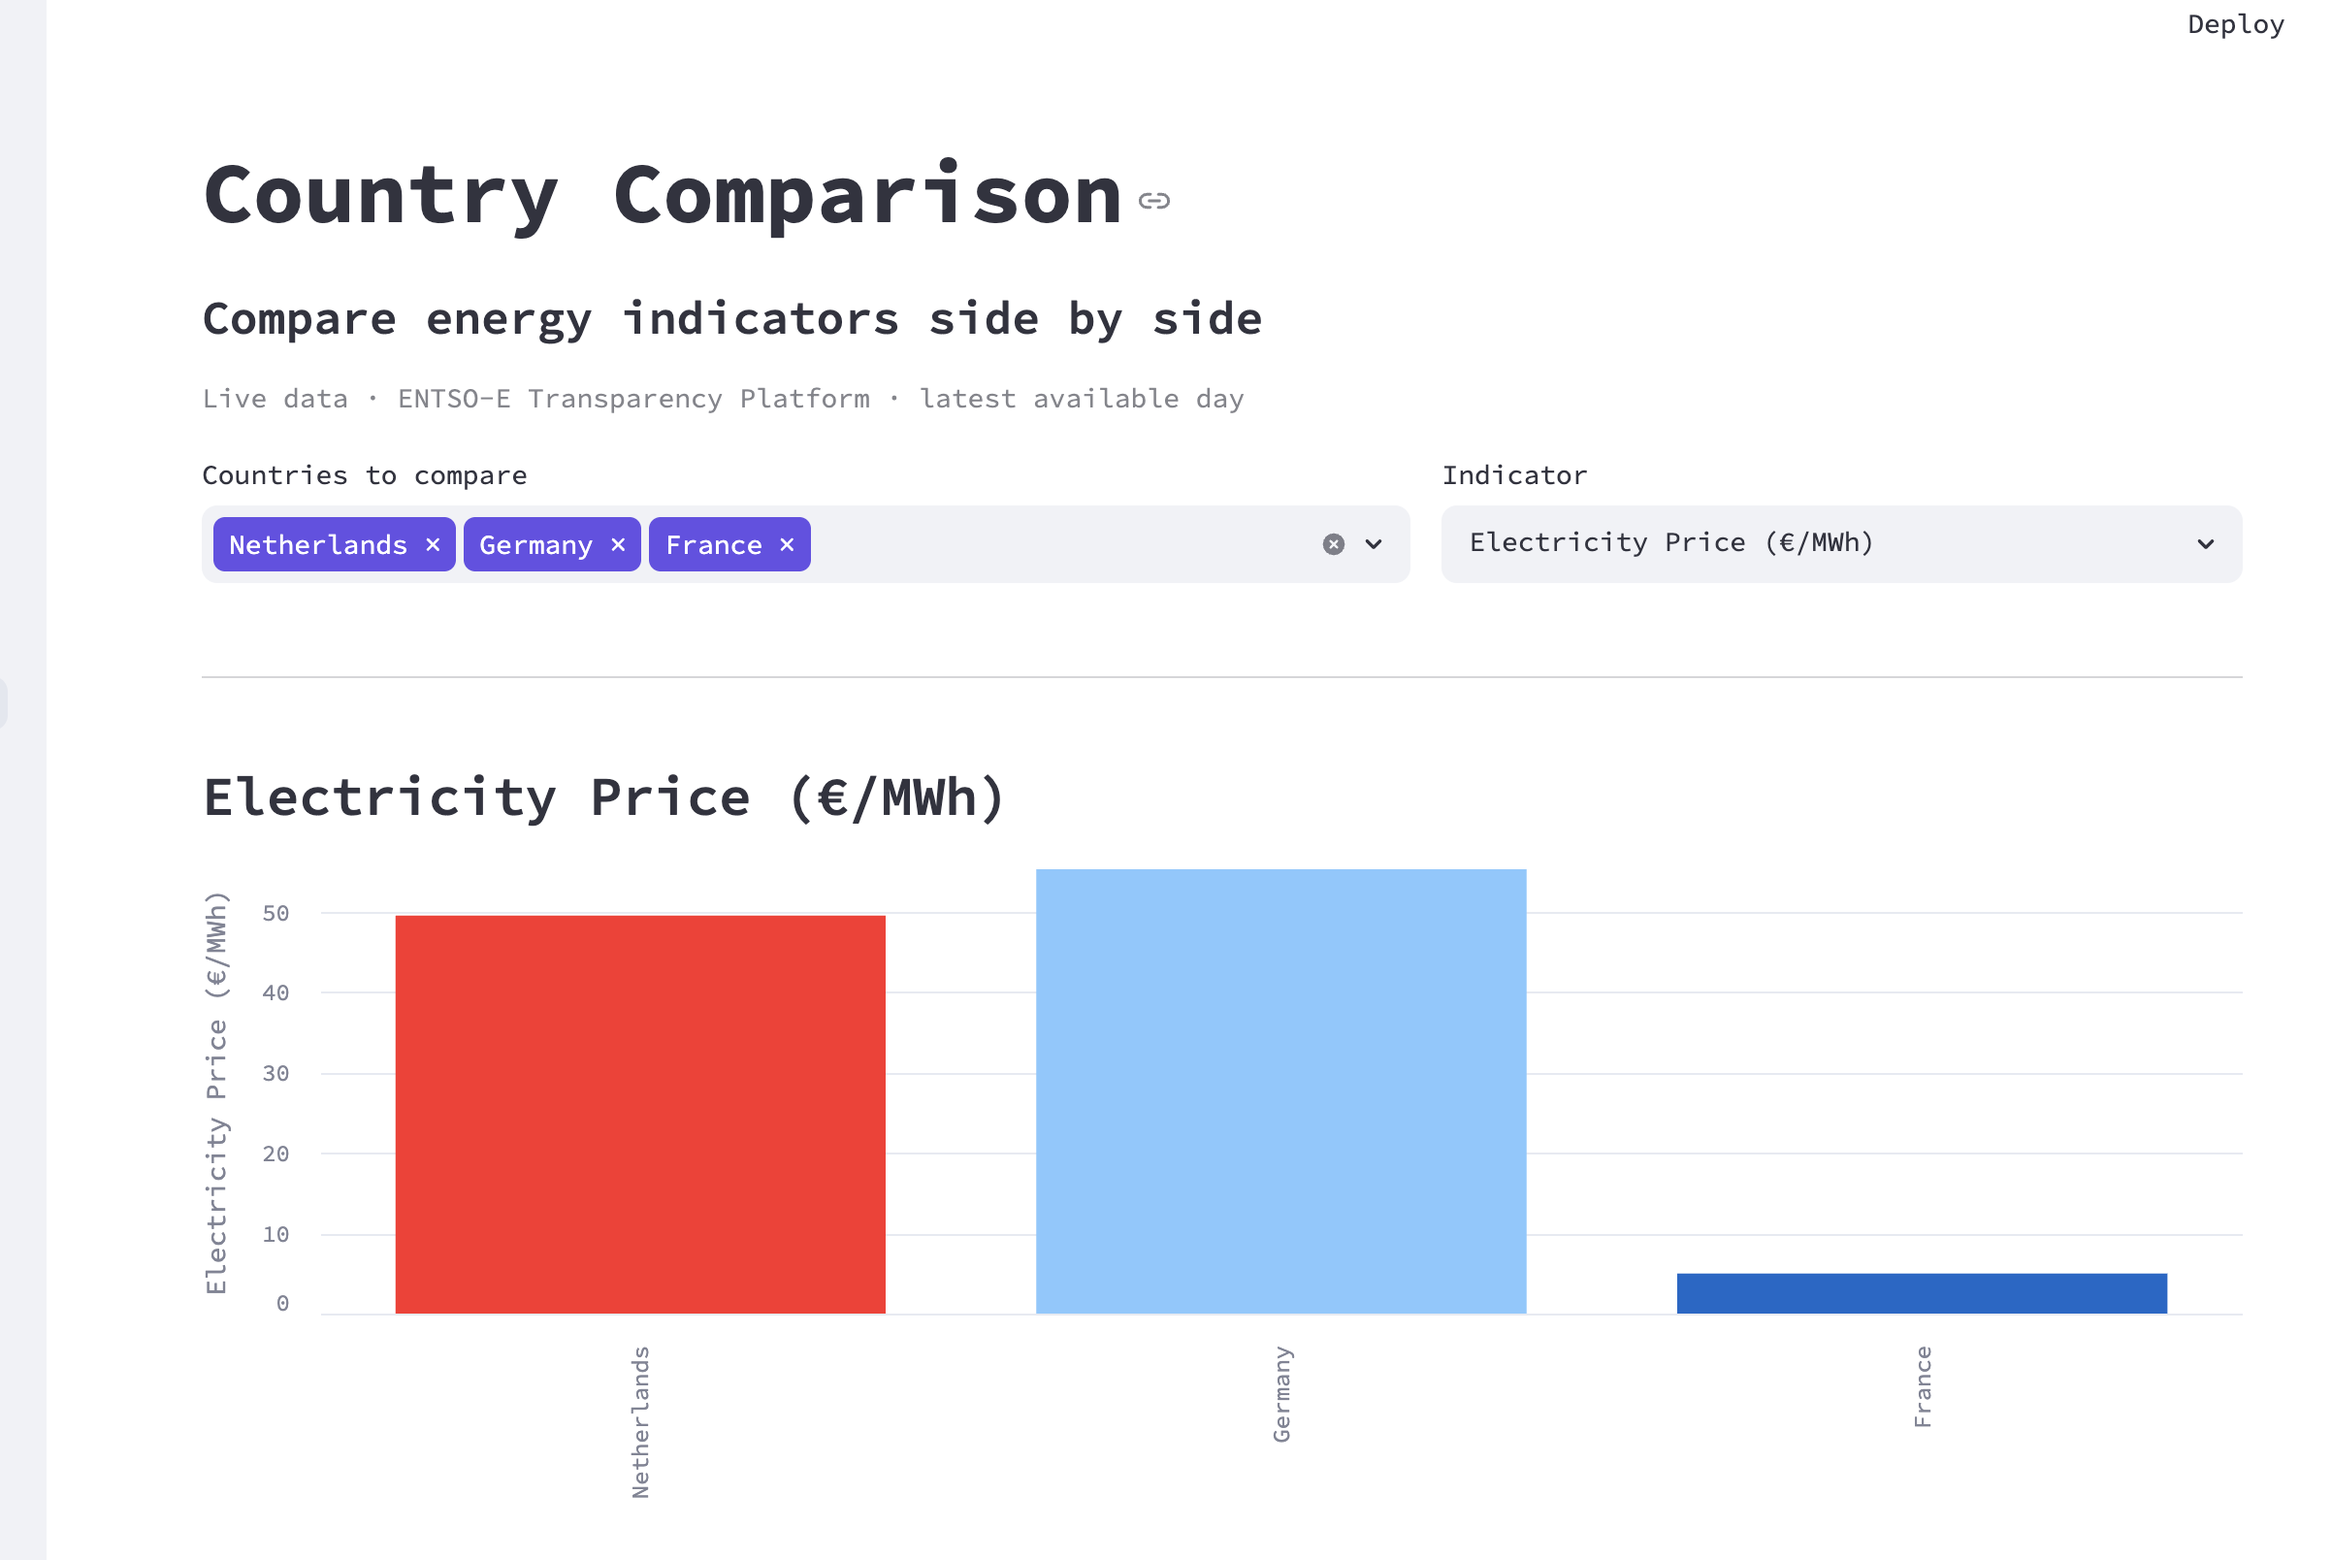
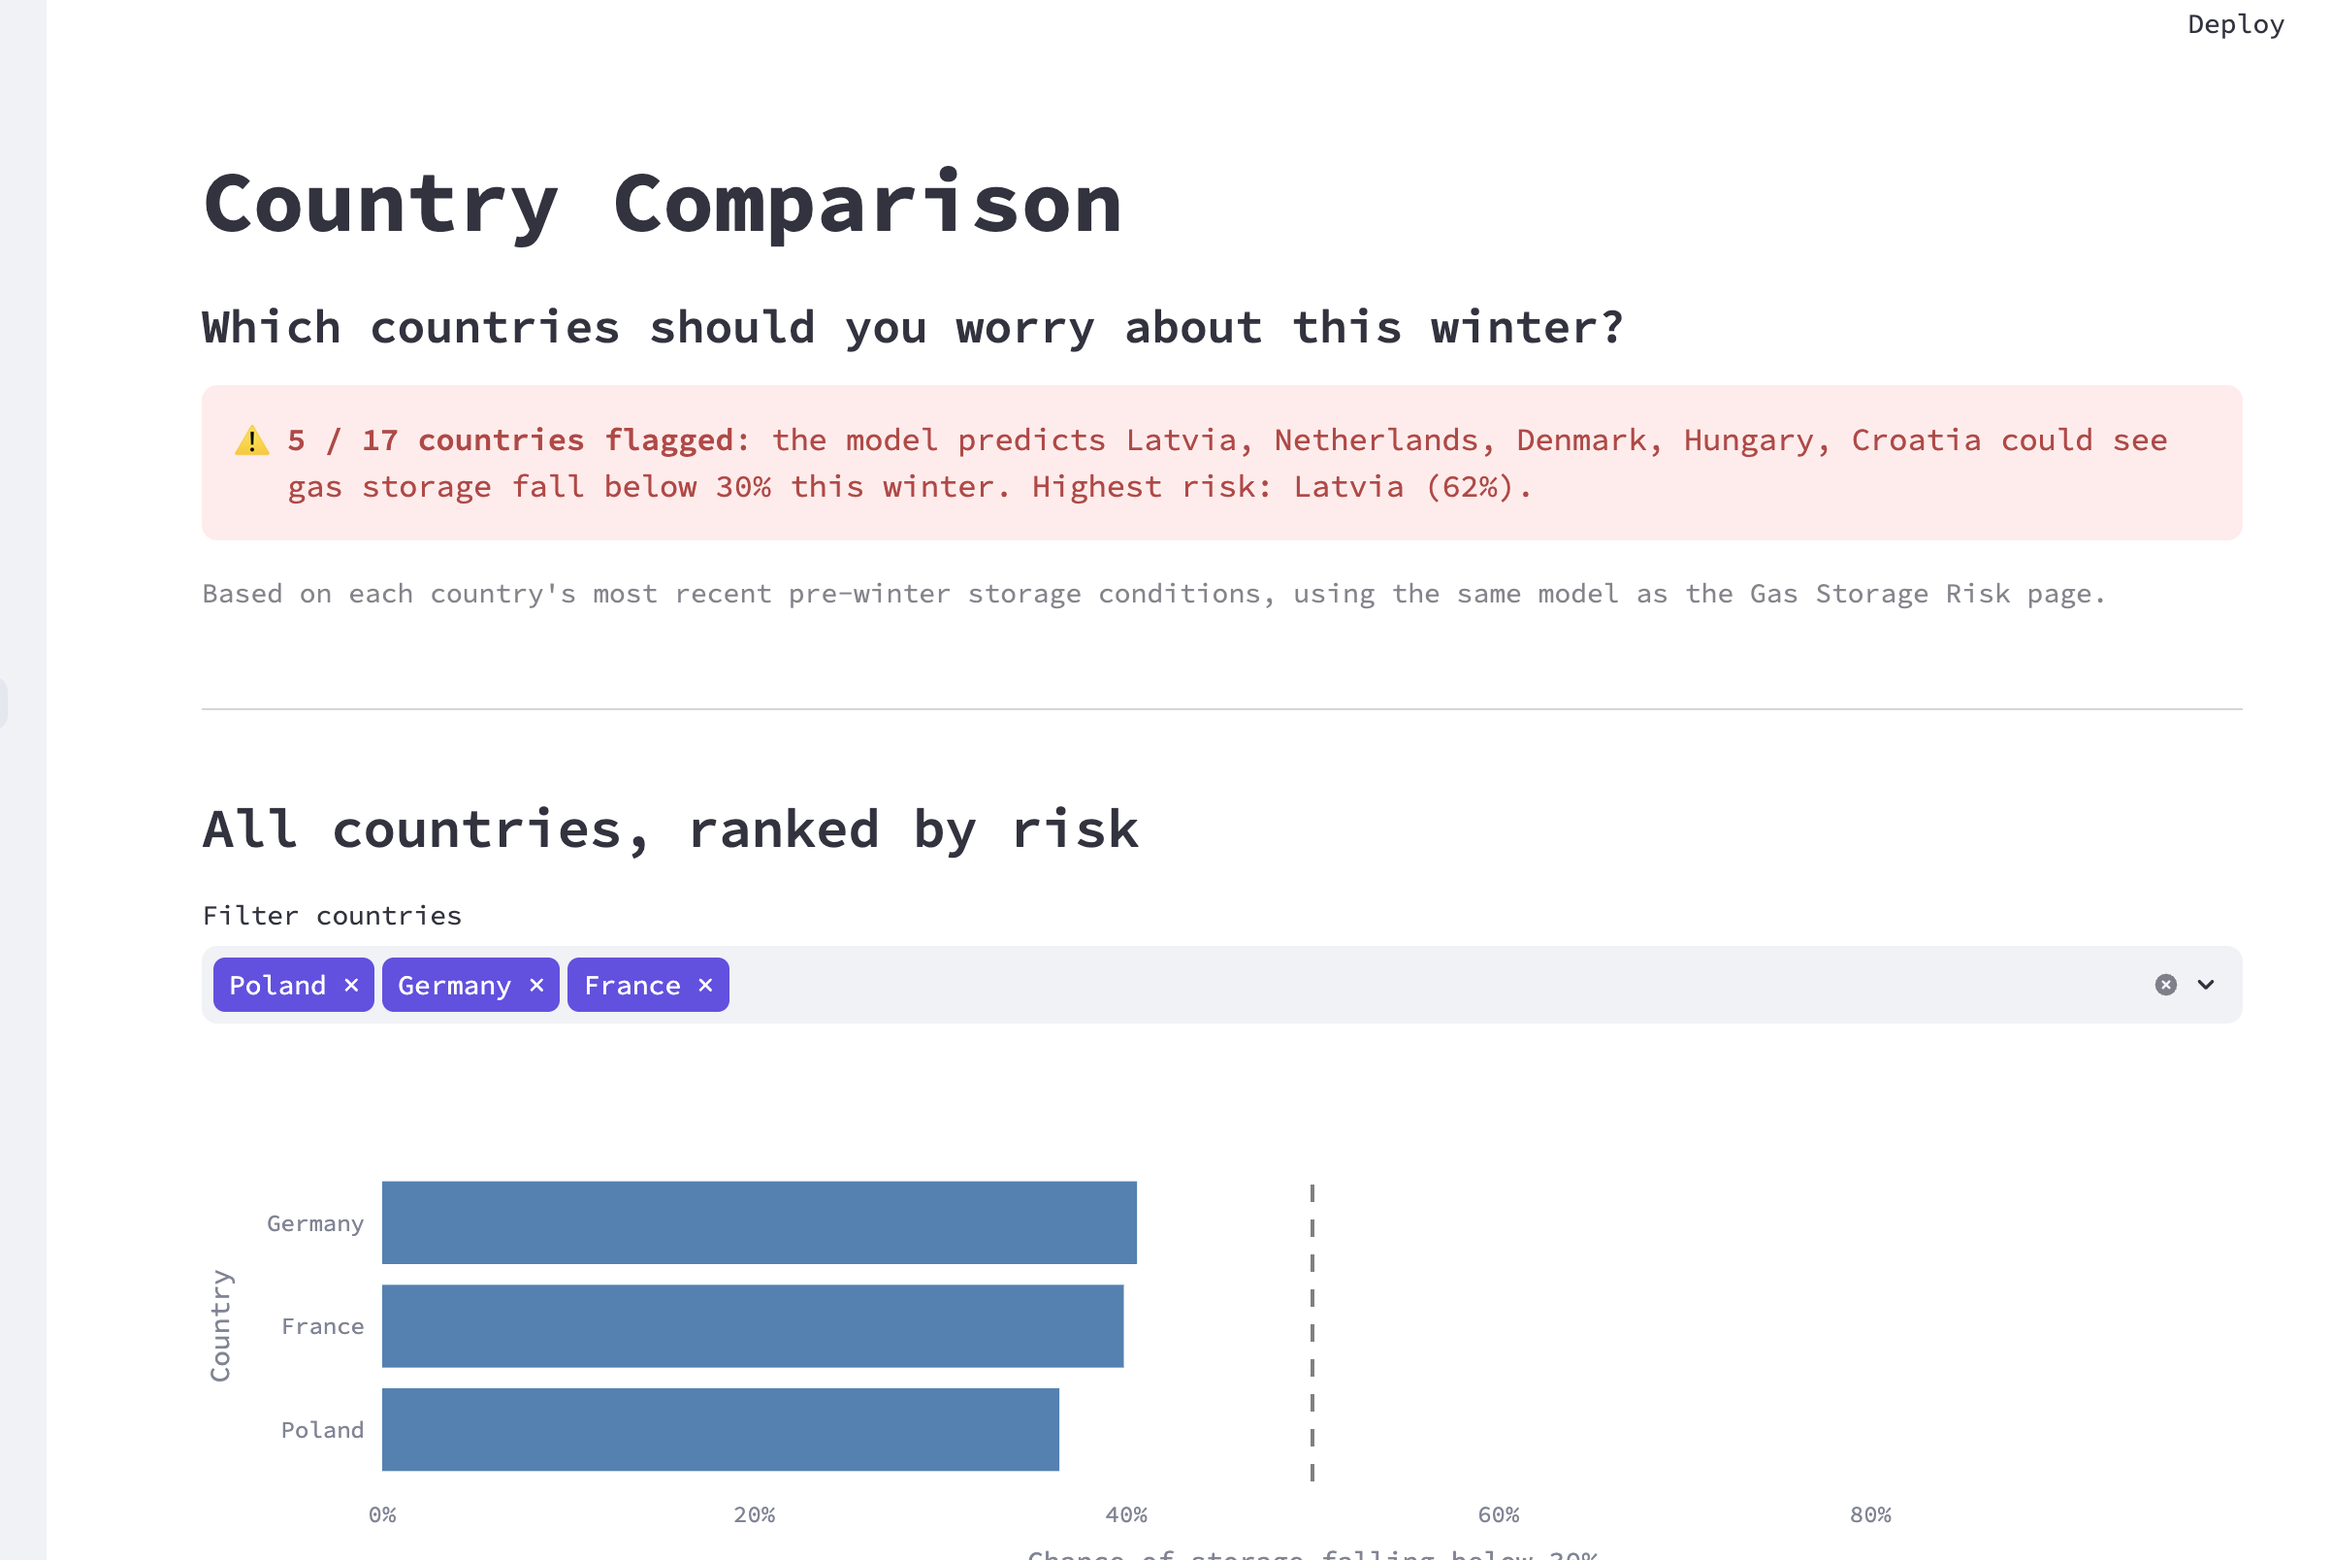
Rewrite journalist UI section around gas storage views

diff --git a/content/team_posts/phase3.md b/content/team_posts/phase3.md
@@ -201,29 +201,31 @@ Phase III UI moves from wireframes to working views for the two personas.
 
 ### Journalist persona (Marco)
 
-Marco's flow centers on three views: a country snapshot for article-ready figures, a multi-country comparison for framing stories, and an interactive gas storage risk model for explaining winter scenarios. All views pull live data from the ENTSO-E Transparency Platform at the latest available day.
+Marco's flow centers on three views built around the gas storage stress model: a 10-year historical country snapshot for grounding a story, a multi-country risk ranking for finding the next angle, and an interactive what-if model for explaining the underlying drivers.
 
 **Views & components**
 
-- **Country snapshot** — country selector, four KPI cards (Electricity Price €/MWh, Demand GWh, Renewables Share %, Import Dependence %) each with day-over-day deltas, plus a horizontal bar chart breaking down generation by fuel (nuclear, gas, coal, oil, wind, solar, hydro, biomass, other).
+- **Country snapshot** — per-country dashboard with four KPIs (current storage level with 30-day delta, stressed winters on record, lowest winter level on record, and the 30% stress threshold), a 2014-present time series of storage % full with the 30% stress line marked, and a "Context for your story" panel with EU policy background, a risk-tier-specific recommendation banner, curated external links (GIE AGSI, EC gas storage policy, national TSO announcements, Eurostat import dependency, Ember, ENTSOG), and quick-jump buttons to the risk model and comparison views.
 
-  {{< siteimg src="images/ui/journalist_snapshot.png" alt="Country snapshot — Netherlands" width="600" >}}
+  {{< siteimg src="images/ui/journalist_snapshot_kpis.png" alt="Country snapshot — Poland KPIs" width="600" >}}
 
-  *How the fuel mix is built:* the "Where the electricity comes from" chart pulls actual generation by production type from ENTSO-E's `query_generation` endpoint for the last three days. Raw "Actual Aggregated" series are cleaned (pumped-storage consumption dropped, negatives clipped to zero) and collapsed into nine buckets — for example, Gas combines Fossil Gas and Fossil Coal-derived gas; Coal combines Hard coal, Lignite, Peat, and Oil shale; Wind combines onshore and offshore; Hydro combines run-of-river, reservoir, and pumped storage. Each bucket is averaged into a daily mean MW, and the chart shows the most recent day as `100 × bucket_MW / total_MW`. Two caveats: it reflects **generation**, not consumption — imports and exports are captured separately by the Import Dependence KPI — and it's a single-day snapshot, so a sunny or windy day will push solar/wind shares higher than a multi-day average would.
+  {{< siteimg src="images/ui/journalist_snapshot_chart.png" alt="Country snapshot — Poland storage time series" width="600" >}}
 
-- **Country comparison** — multi-select country picker and indicator dropdown that renders a side-by-side bar chart on the chosen metric (e.g. electricity price across Netherlands, Germany, France).
+  {{< siteimg src="images/ui/journalist_snapshot_story.png" alt="Country snapshot — context for your story" width="600" >}}
 
-  {{< siteimg src="images/ui/journalist_comparison.png" alt="Country comparison — electricity price" width="600" >}}
+- **Country comparison** — runs the gas storage stress model across every available country and ranks them by risk probability. A summary banner flags how many countries (and which) the model predicts could fall below 30% storage this winter, naming the highest-risk country. A horizontal bar chart shows the full ranking with the 50% decision boundary marked, and an optional country filter narrows the view.
 
-- **Gas storage risk** — logistic regression trained on GIE AGSI winters 2015–2024. Country dropdown plus three sliders (storage level entering winter, change in storage over October, storage volatility) returning a risk probability and an at-risk/not-at-risk label.
+  {{< siteimg src="images/ui/journalist_comparison.png" alt="Country comparison — winter risk ranking" width="600" >}}
 
-  {{< siteimg src="images/ui/journalist_storage_risk.png" alt="Gas storage risk model" width="600" >}}
+- **Gas storage risk** — logistic regression trained on GIE AGSI winters 2015–2024. Country dropdown plus three sliders (storage level entering winter, change in storage over October, storage volatility over the past 90 days) returning a risk probability and an at-risk/not-at-risk label. Sliders default to the country's most recent winter so journalists see the live prediction first and can then explore what-if scenarios.
+
+  {{< siteimg src="images/ui/journalist_storage_risk.png" alt="Gas storage risk model — Poland" width="600" >}}
 
 **Data binding**
 
-- Snapshot KPIs and fuel mix → `/api/country/{code}/snapshot` (ENTSO-E live).
-- Comparison chart → `/api/compare?countries=…&indicator=…`.
-- Storage risk → `/api/storage/risk` (POST with slider values, returns probability + class label).
+- Snapshot KPIs, time series, and context panel → `/api/country/{code}/snapshot` backed by GIE AGSI historical storage.
+- Comparison ranking → `/api/storage/risk/ranking` (runs the same model per country, returns sorted probabilities).
+- Storage risk what-if → `/api/storage/risk` (POST with slider values, returns probability + class label).
 
 ## Individual posts
 

diff --git a/content/Bobby_Bress/Bobby_individual_blog_3.md b/content/Bobby_Bress/Bobby_individual_blog_3.md
@@ -4,7 +4,7 @@ date: 2026-06-04
 draft: false
 description: "Reflection on Phase 3 contributions: journalist UI, ML integration, REST API design, and the chocolate factory visit"
 slug: "bress-phase3-blog"
-tags: ["UI", "journalist", "ENTSO-E", "REST API", "ML", "Belgium"]
+tags: ["UI", "journalist", "gas storage", "REST API", "ML", "Belgium"]
 authors:
   - "Bobby_Bress"
 showAuthorsBadges : false
@@ -12,6 +12,6 @@ showAuthorsBadges : false
 
 ### Phase 3 Blog Post
 
-For this section, I built the user interface pages for the journalist. I made them based on the wireframes that we made last time, but had to make a variety of changes based on the available data and a minor change in our ML models. The journalist section has 3 sections: the country snapshot, the country comparison, and the gas storage risk. The country storage page accesses ENTSO-e data via an api that pulls real time data and displays it. It shows electricity price, electricity demand, renewables share, and import dependence. There is also a chart for each country that shows where their energy comes from. The country comparison page shows the same variables, but in a comparison where there is a chart and a table that show the data. The gas storage risk page lets you input variables for storage level entering winter, change in storage over October, and storage volatility over the last 90 days and outputs wether the country is at risk and gives a risk probability. This is the machine learning model that is used for the journalist. Aside from the user interface, I worked with Ari to help brainstorm what the REST API table should look like.
+For this section, I built the user interface pages for the journalist. I made them based on the wireframes that we made last time, but had to make a variety of changes based on the available data and a shift in how we framed our ML models around gas storage. The journalist section has 3 sections: the country snapshot, the country comparison, and the gas storage risk. The country snapshot page shows ten years of gas storage history for a country at a time. It displays the current storage level, the number of stressed winters on record, the lowest winter level on record, and the 30% stress threshold. There is also a time-series chart that shows how storage fills and drains each year, with the stress line marked, and a "context for your story" panel that gives the journalist EU policy background and curated external links to follow. The country comparison page runs the gas storage risk model across every country we have data for and ranks them by risk probability. It flags which countries the model predicts could fall below 30% storage this winter and shows them all in a horizontal bar chart sorted by risk. The gas storage risk page lets you input variables for storage level entering winter, change in storage over October, and storage volatility over the last 90 days, and outputs whether the country is at risk along with a risk probability. This is the machine learning model that is used for the journalist. Aside from the user interface, I worked with Ari to help brainstorm what the REST API table should look like.
 
 Outside of the project, I really enjoyed the chocolate factory visit. It was a breath of fresh air while working on our projects, and I had a great time making the chocolate in the factory. I also thought it was great that we were able to take them home with us.
